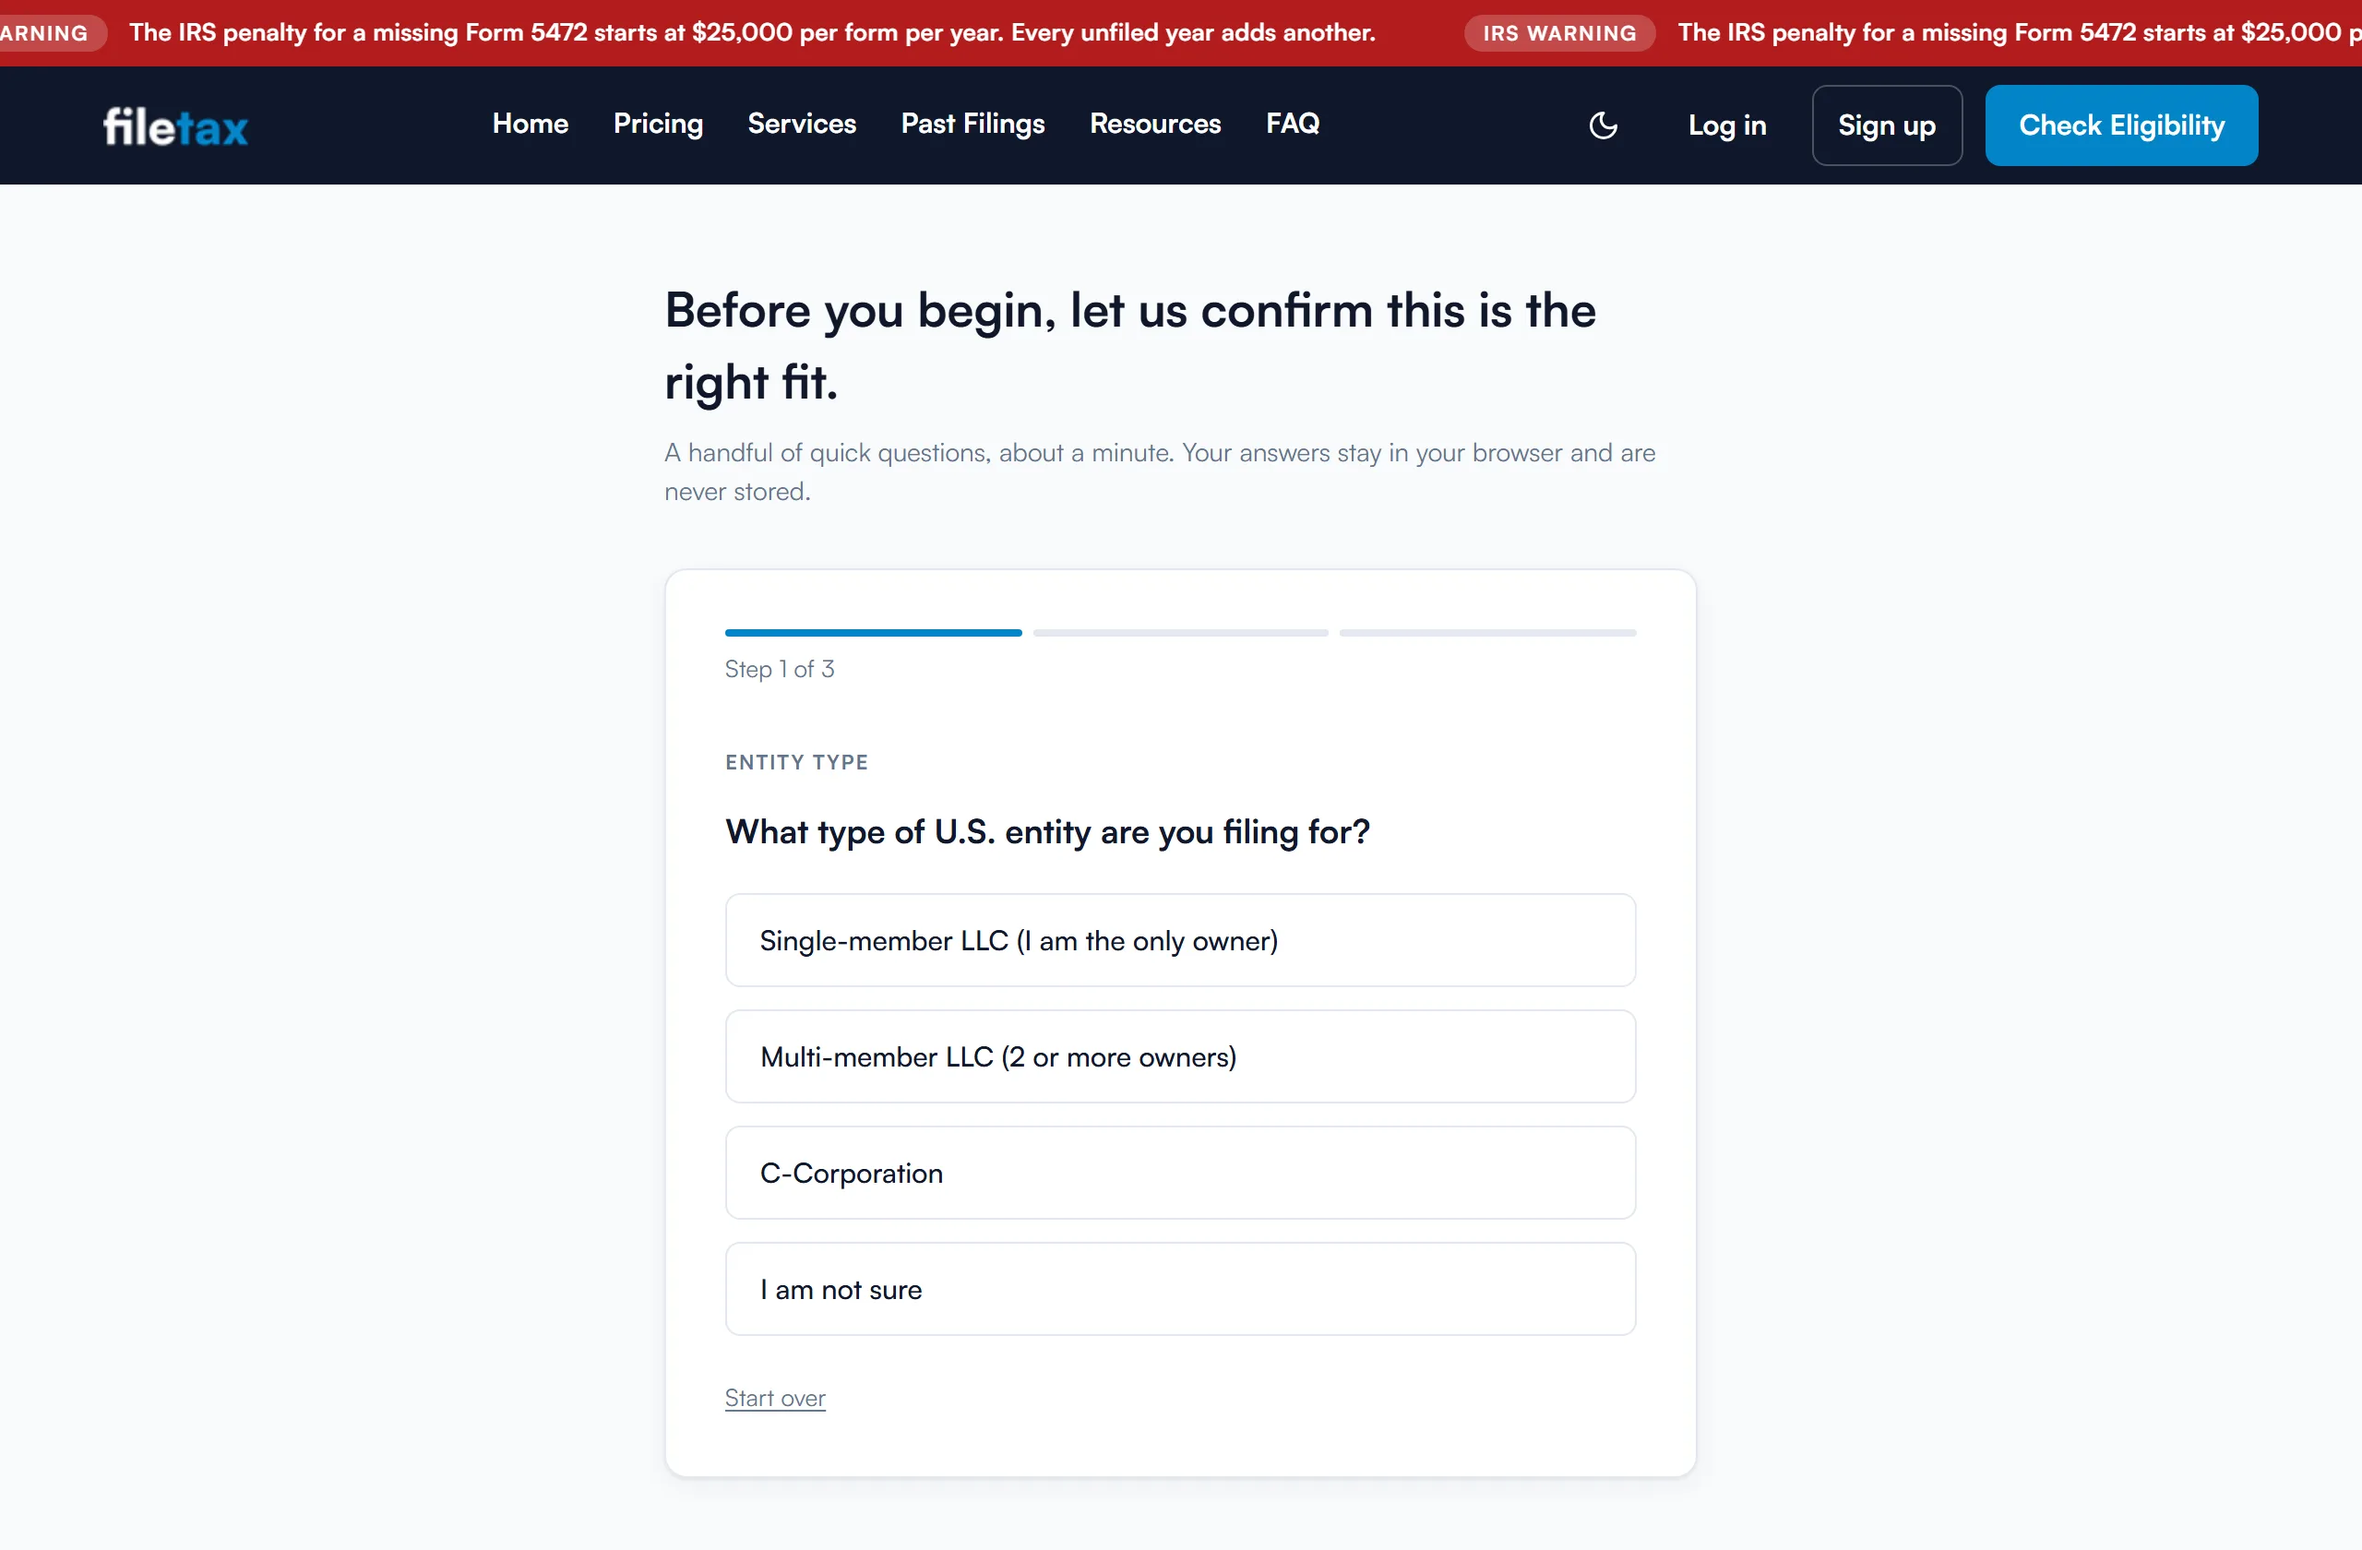
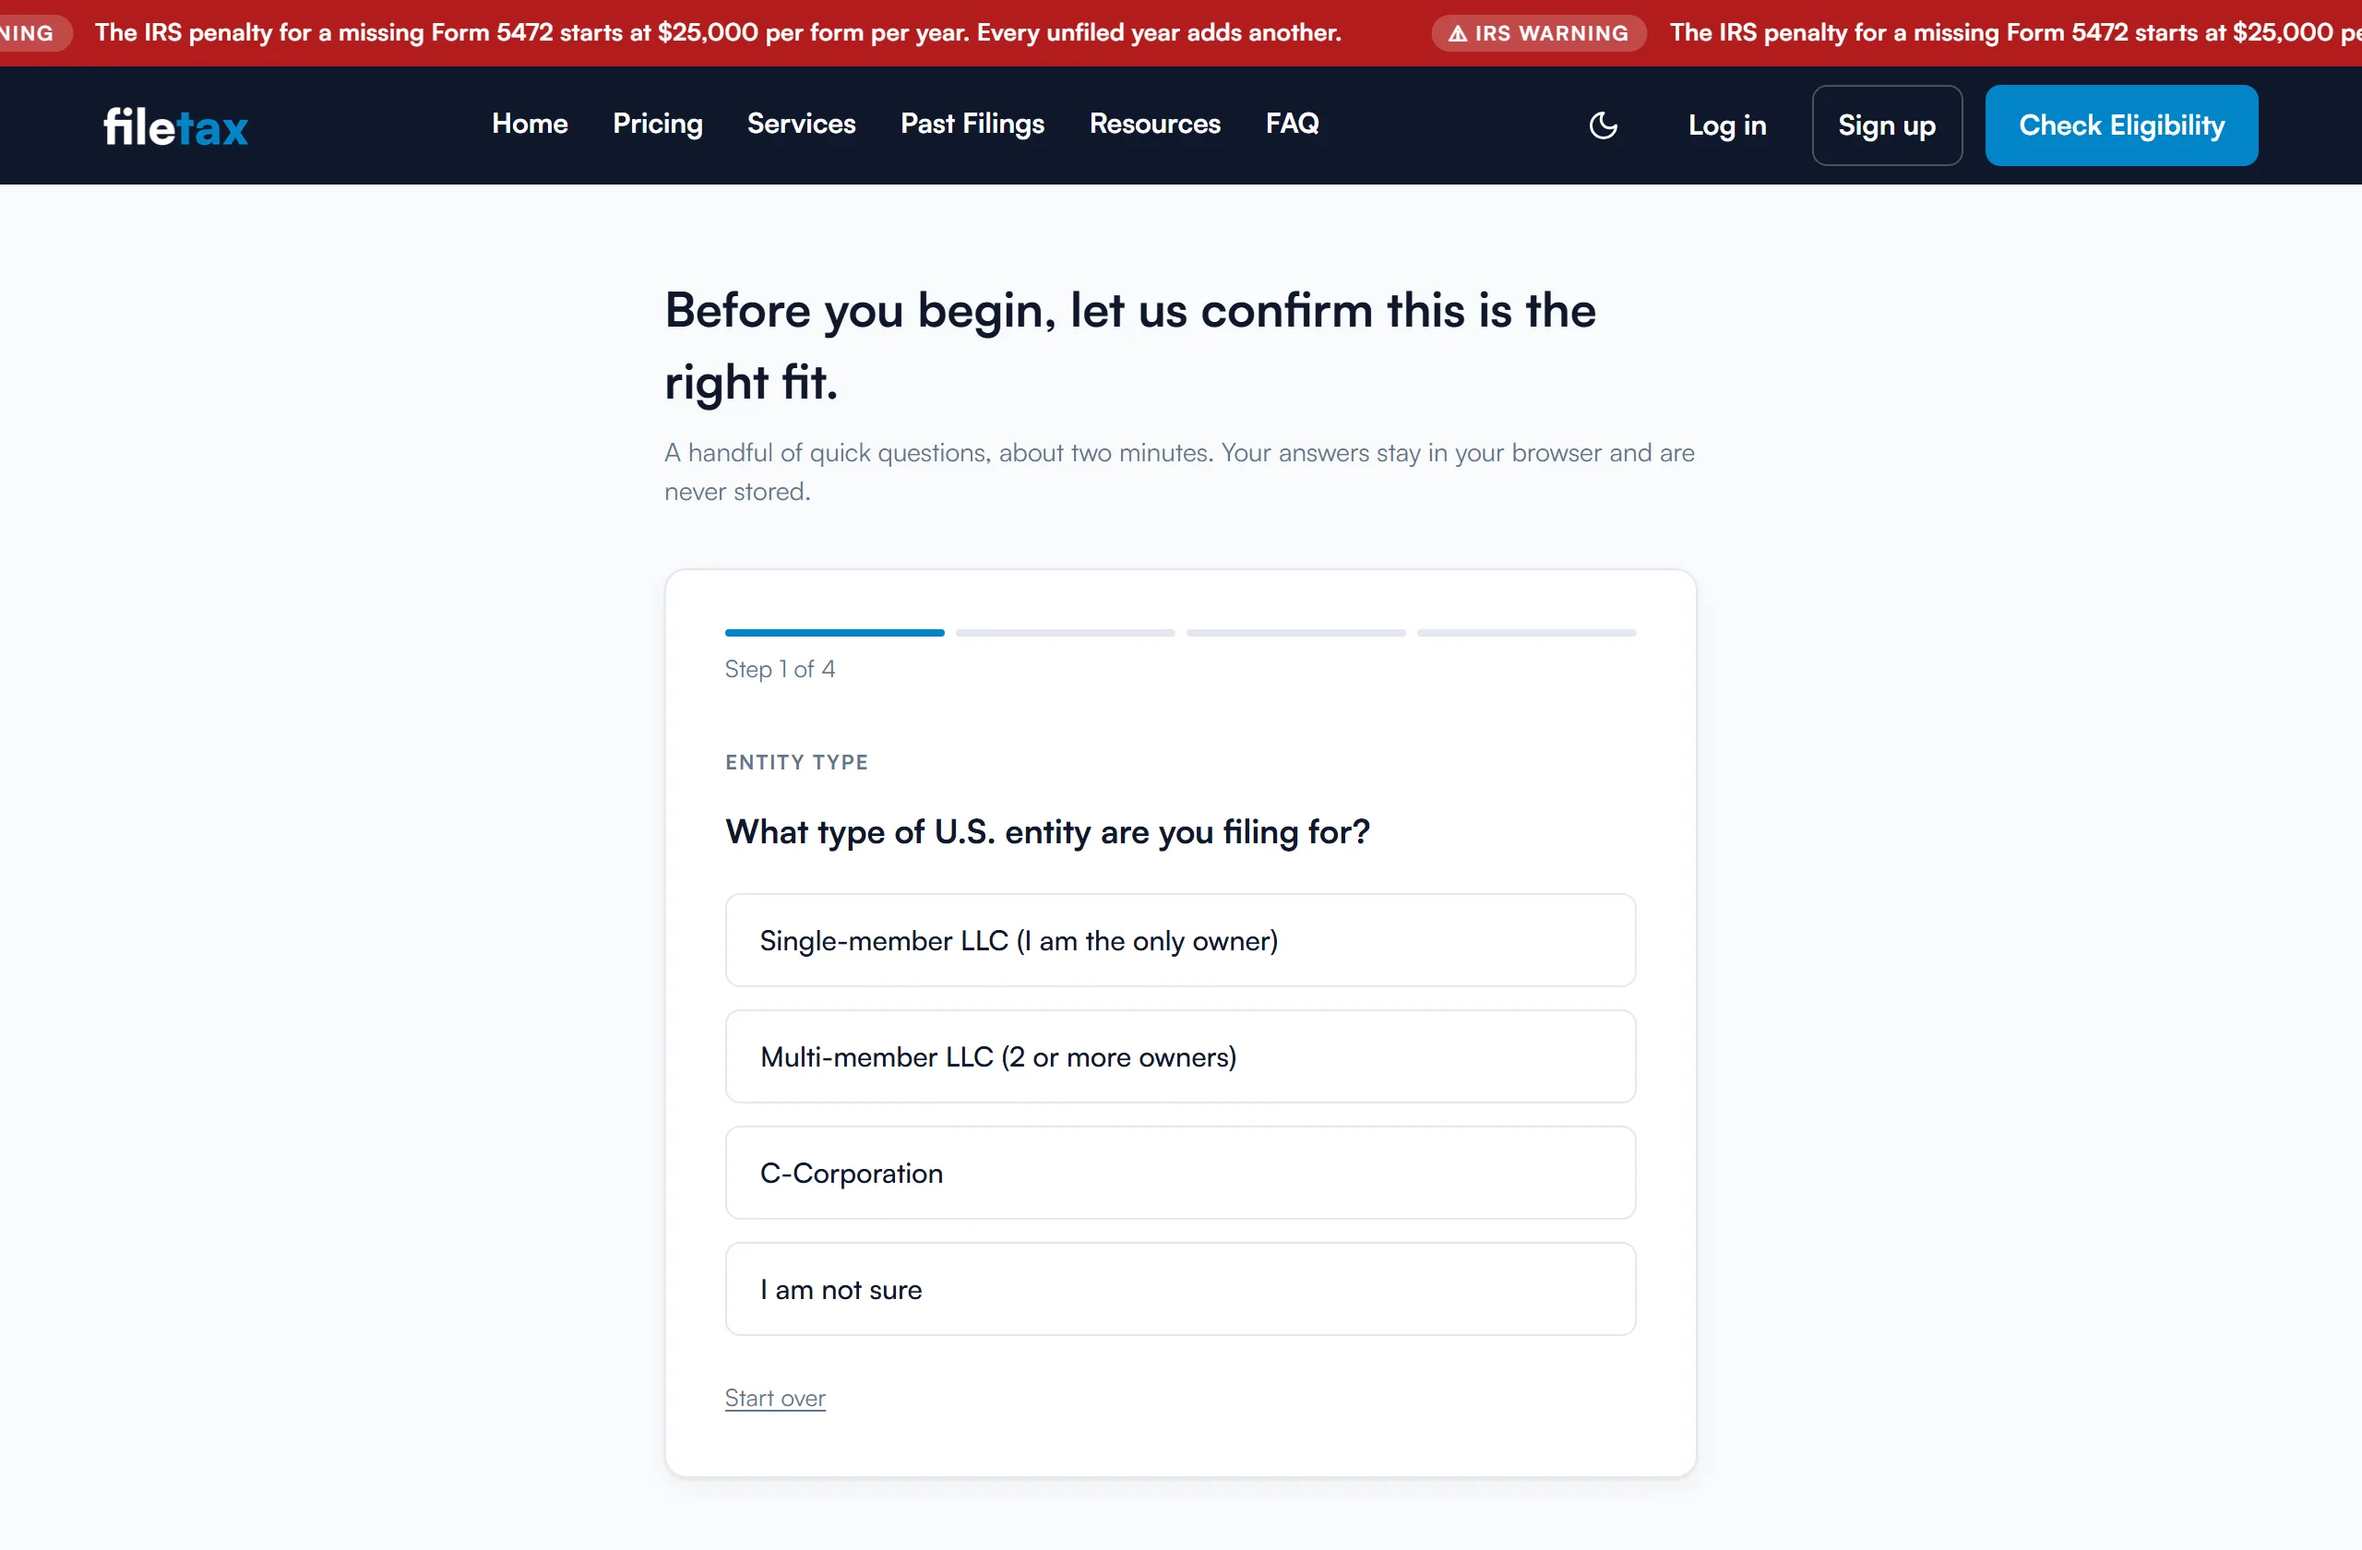
Capture guide shots from live, and stop asking filers for a passport
The portal's "What you will need" list told filers to have a PASSPORT NUMBER
ready. No screen in the flow ever asks for one: Owner Details asks for a
foreign tax ID, validated against the format for the filer's country. That
list is read before anyone starts, so it was sending people to find the
wrong document. /guide step 2 has always said foreign tax ID.

The password checklist rendered en dashes, "(a-z)", "(A-Z)", "(0-9)".
They were about to be baked into a published screenshot.

captureGuideShots now takes --live and --only=:

  npm run shots:guide -- --live --only=01-eligibility,02-portal

--live captures filetax.co instead of a local production build. This
STRENGTHENS the DEV-affordance guarantee rather than weakening it: on
filetax.co import.meta.env.DEV is false, so the scenario loader and the two
auth bypasses cannot exist there at all. What is lost is the ability to
photograph an unmerged change, which is the point.

--only skips the rest, and credentials are demanded only when a requested
shot actually needs a session. So the two public shots run on a machine with
no .env.local. Both are captured here from live.

Adds the 06-fax and 07-catchup capture steps. 06-fax looks for a filing whose
card says it is faxed rather than taking the first one, because the draft used
by 04 and 05 is deliberately unpaid and has no fax panel.

THROWS ON A DARK CAPTURE. The signed-out shots follow Playwright's
[…]

diff --git a/src/app/pages/Portal.tsx b/src/app/pages/Portal.tsx
@@ -5,10 +5,16 @@ import { supabase } from '../../lib/supabase';
 import { useNavigate } from 'react-router';
 import { validatePassword, meetsAllRules, PASSWORD_RULES, ruleStatus } from '../../lib/passwordSecurity';
 
+// WHAT TO HAVE READY. This list has to match what the intake actually asks
+// for. It said "passport number" until 8 August 2026, which no screen in the
+// flow ever requests: Owner Details asks for a FOREIGN TAX ID, validated
+// against the format for the filer's country. The list is read before anyone
+// starts, so it was sending people to find the wrong document. Owner's
+// instruction to drop it. /guide step 2 says foreign tax ID and always did.
 const checklistItems = [
   "Your LLC's EIN (Employer Identification Number)",
   "The tax year you are filing for",
-  "Owner details: full legal name, country of residence, passport number",
+  "Owner details: full legal name, country of residence, foreign tax ID",
   "Bank transaction details for the filing year",
   "Details of any capital contributions, distributions, loans, or payments between you and the LLC during the year",
 ];

diff --git a/src/lib/passwordSecurity.ts b/src/lib/passwordSecurity.ts
@@ -34,9 +34,9 @@ export interface PasswordRule {
 
 export const PASSWORD_RULES: PasswordRule[] = [
   { key: 'length', label: `At least ${PASSWORD_MIN_LENGTH} characters`, test: (p) => p.length >= PASSWORD_MIN_LENGTH },
-  { key: 'lower', label: 'One lowercase letter (a–z)', test: (p) => /[a-z]/.test(p) },
-  { key: 'upper', label: 'One uppercase letter (A–Z)', test: (p) => /[A-Z]/.test(p) },
-  { key: 'number', label: 'One number (0–9)', test: (p) => /[0-9]/.test(p) },
+  { key: 'lower', label: 'One lowercase letter (a-z)', test: (p) => /[a-z]/.test(p) },
+  { key: 'upper', label: 'One uppercase letter (A-Z)', test: (p) => /[A-Z]/.test(p) },
+  { key: 'number', label: 'One number (0-9)', test: (p) => /[0-9]/.test(p) },
   { key: 'symbol', label: 'One symbol (!?@#$…)', test: (p) => /[^A-Za-z0-9]/.test(p) },
 ];
 
